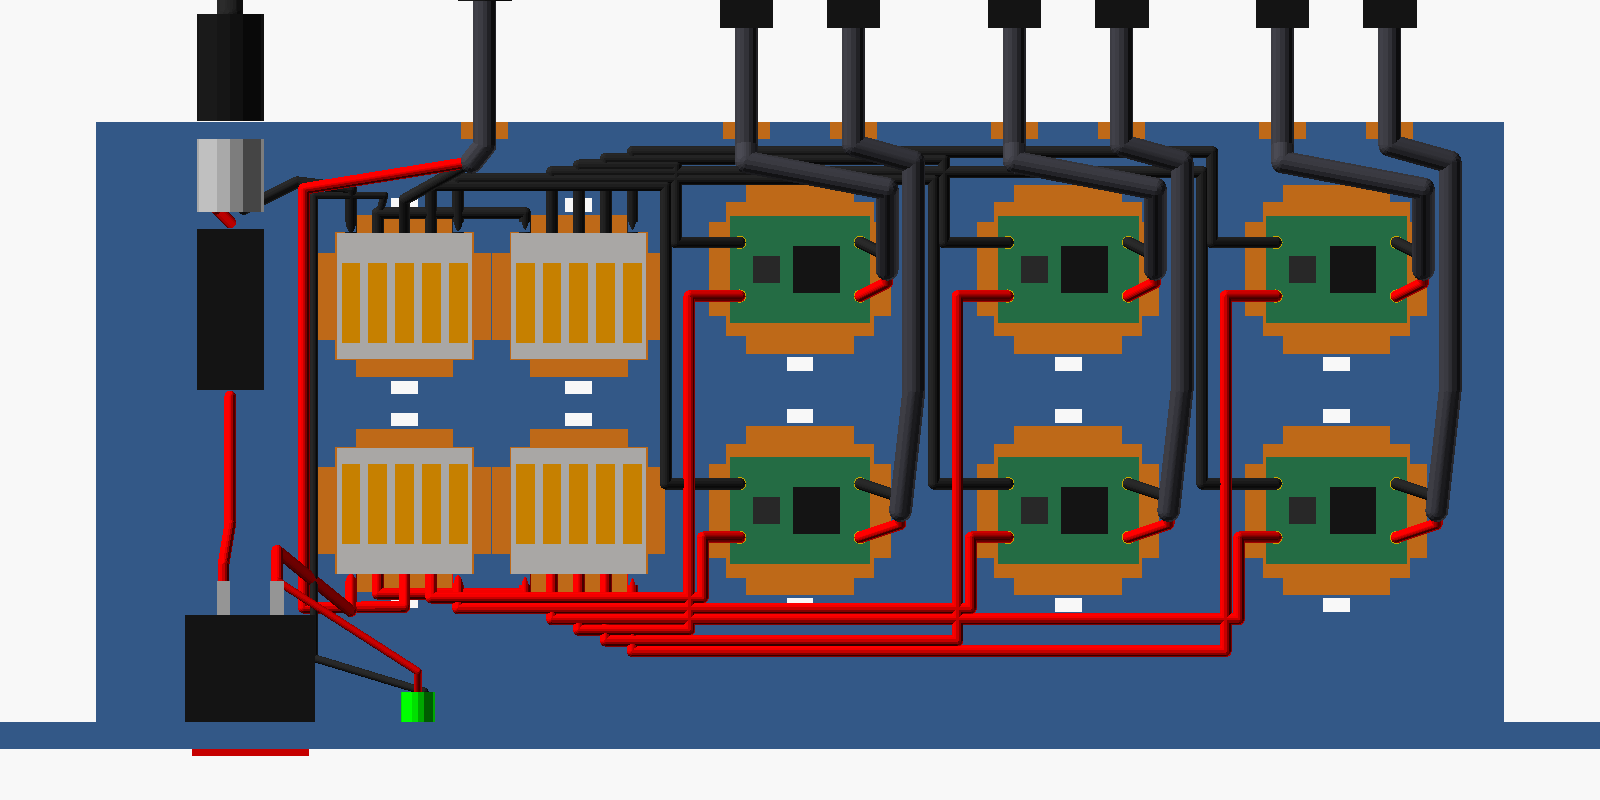
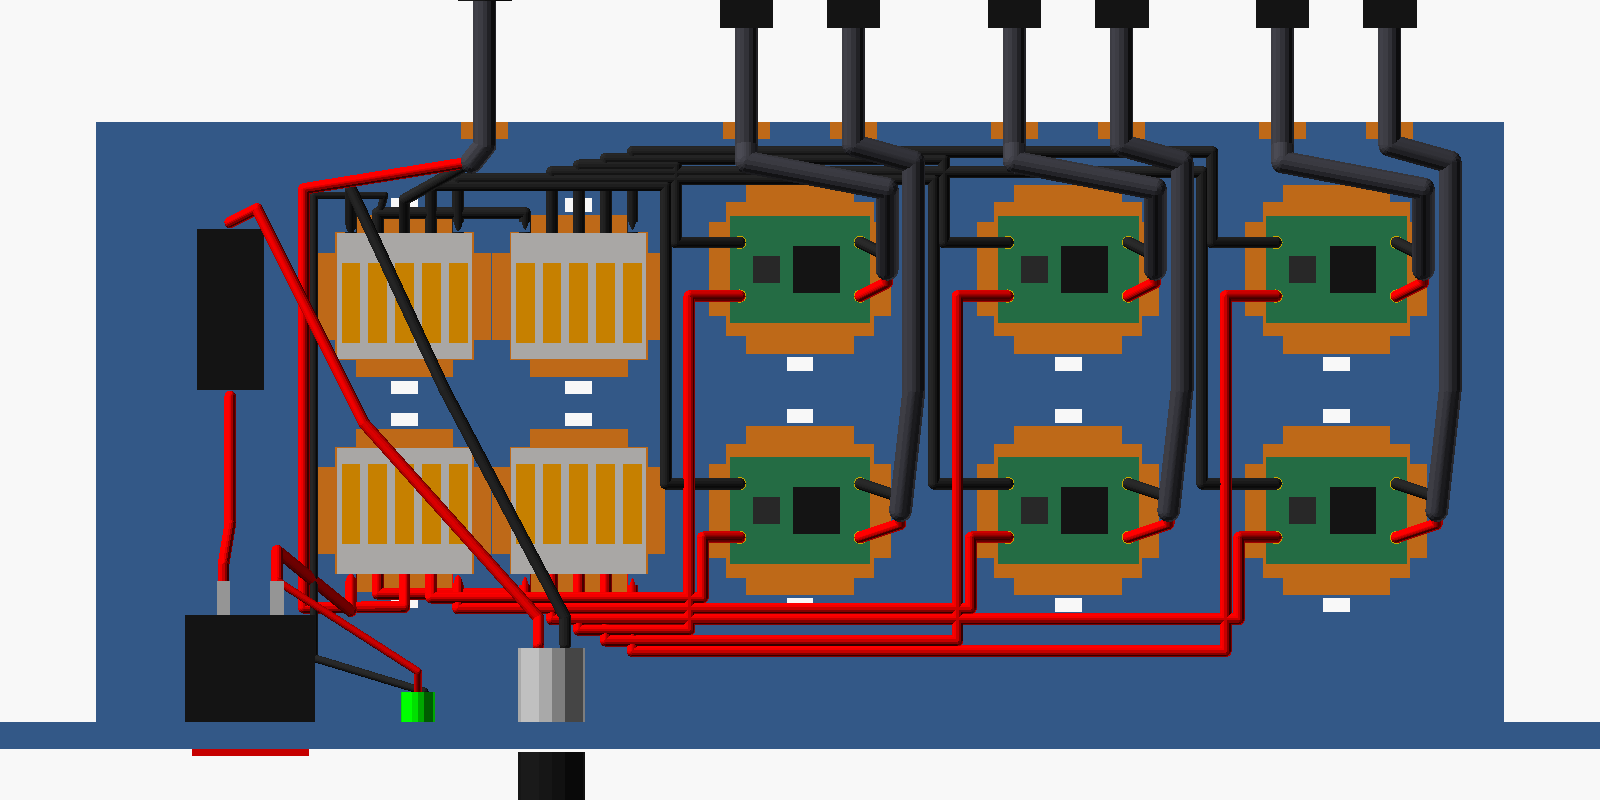
Six-buck panel: DC jack on the front panel
Add a jack_side option ("rear" or "front", with jack_front_x) and set the
six-buck panel to "front", between the LED and the vents. Main and
expansion keep the rear jack and render byte-identical to before.

The wired preview follows the option, and render.sh adds a front view.

diff --git a/README.md b/README.md
@@ -38,10 +38,10 @@ Panel 2: (optional rocker) ──► Wago 221-415 ──► Buck 4–6 ──►
 
 ### Six-buck panel (Pi 1–6 in one 1U)
 
-All six Pis and the GS308 can also run from **one** panel instead of main + expansion. It has the main module's input (rear jack, 5 A fuse, rocker), no link-out, and the bucks in two rows of three:
+All six Pis and the GS308 can also run from **one** panel instead of main + expansion. It has the main module's input (DC jack, 5 A fuse, rocker), no link-out, and the bucks in two rows of three. The DC jack is on the **front panel**, between the LED and the vents, so the brick plugs in from the front:
 
 ```
-Brick 12V ──► rear DC jack ──► 5A fuse ──► rocker ──► Wago 221-415 ══ jumper ══ Wago 221-415   (+12V; GND the same)
+Brick 12V ──► front DC jack ──► 5A fuse ──► rocker ──► Wago 221-415 ══ jumper ══ Wago 221-415   (+12V; GND the same)
                                                         ├──► GS308         ├──► Buck 3–6 ──► Pi 3–6
                                                         └──► Buck 1–2 ──► Pi 1–2
 ```
@@ -58,6 +58,8 @@ Wired up, with stand-in parts (`cad/six-assembly.scad`, a preview only, not for 
 ![Six-buck panel, wired, from the rear](docs/six-assembly.png)
 
 ![Six-buck panel, wired, top view (front panel at the bottom)](docs/six-assembly-top.png)
+
+![Six-buck panel, wired, front: rocker, LED, DC jack](docs/six-assembly-front.png)
 
 - **Panel LED:** both 221-415 pairs are full, so the LED's + wire piggybacks on the rocker's output tab (1 kΩ resistor in the lead), and its − wire shares GND Wago A's jumper port in a twin ferrule. An illuminated 3-pin rocker avoids the extra wires entirely.
 
@@ -79,7 +81,7 @@ The model is parametric. Measure your parts and change the values at the top of 
 
 1. `ear_pitch` (236.5): your rack's hole spacing, center to center.
 2. `buck_in` ([22, 20]): the pocket size for your buck module.
-3. `jack_d` (12.2): use 8.2 for an M8-body DC jack.
+3. `jack_d` (12.2): use 8.2 for an M8-body DC jack. `jack_side` (`"rear"` or `"front"`) puts it in the rear wall or on the front panel at `jack_front_x`. The main panel uses the rear; the six-buck panel sets `"front"` in `six-panel.scad`.
 4. `rocker` ([19.4, 13.1]): the cutout for your rocker switch.
 5. `tray_w` (210): this must fit between your rack rails.
 
@@ -111,7 +113,7 @@ The drawing in `docs/layout.svg` shows the main module before the link-out was a
 
 | | Main | Expansion | Six-buck |
 |---|---|---|---|
-| Input | 5.5×2.1 DC jack (rear wall) | XT30 pigtail through a rear notch | 5.5×2.1 DC jack (rear wall) |
+| Input | 5.5×2.1 DC jack (rear wall) | XT30 pigtail through a rear notch | 5.5×2.1 DC jack (front panel) |
 | Fuse | 5 A inline, with tie-down | none | 5 A inline, with tie-down |
 | Rocker | yes | optional (`expansion_rocker`) | yes |
 | Bucks | 3, one row | 3, one row | 6, two rows of three |
